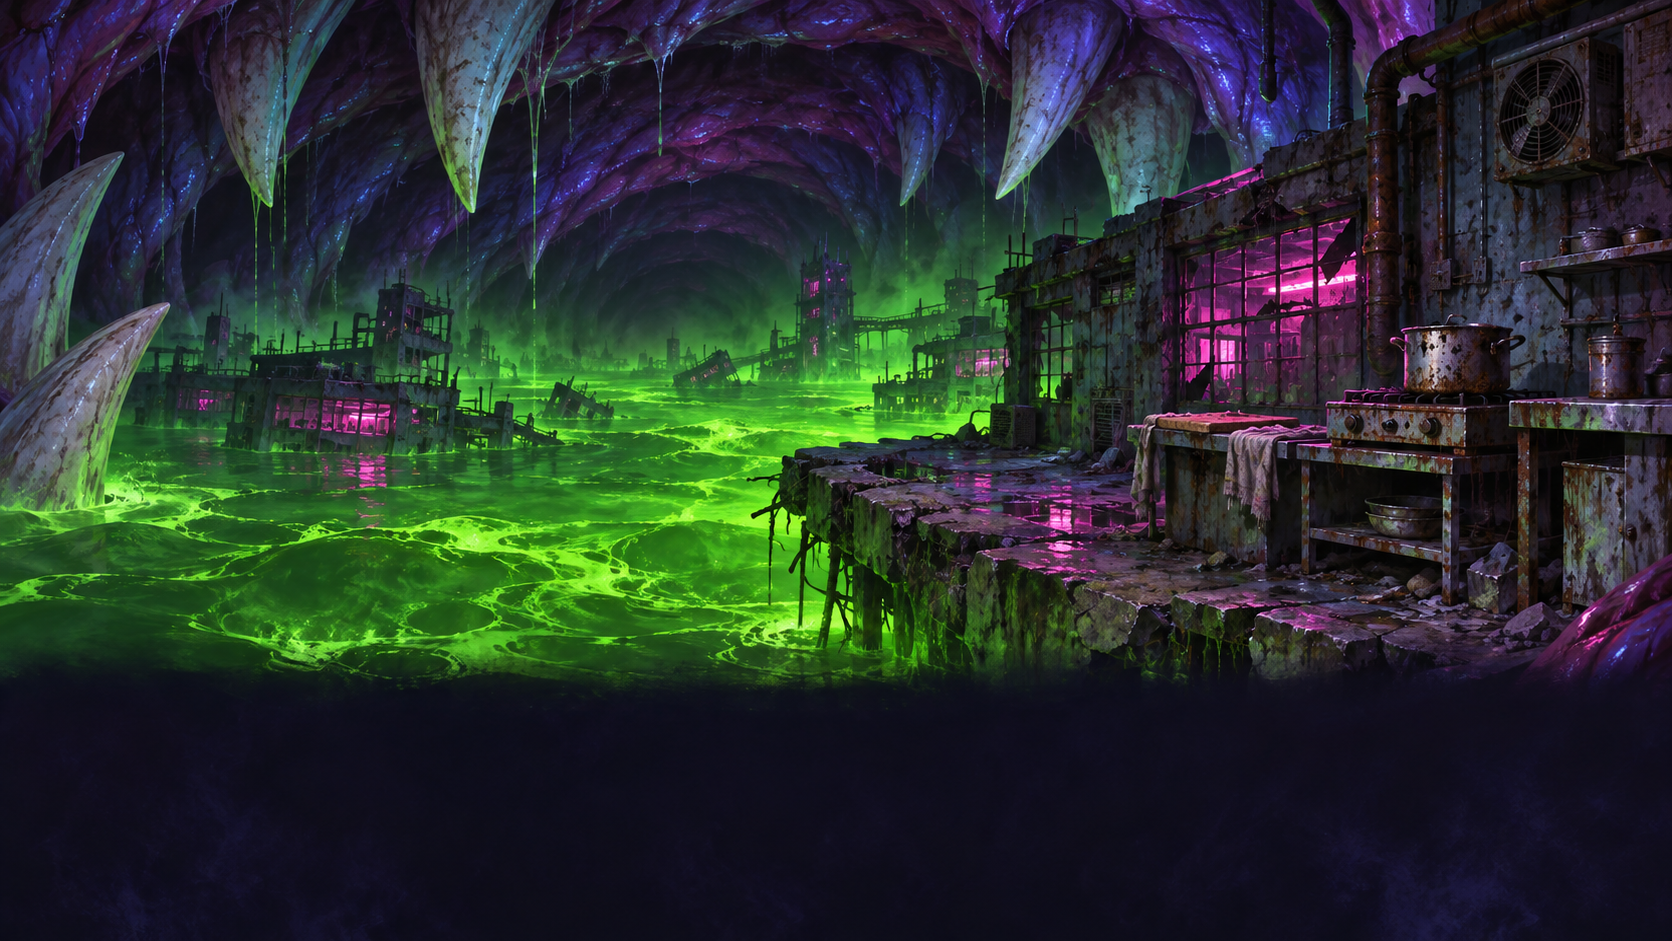
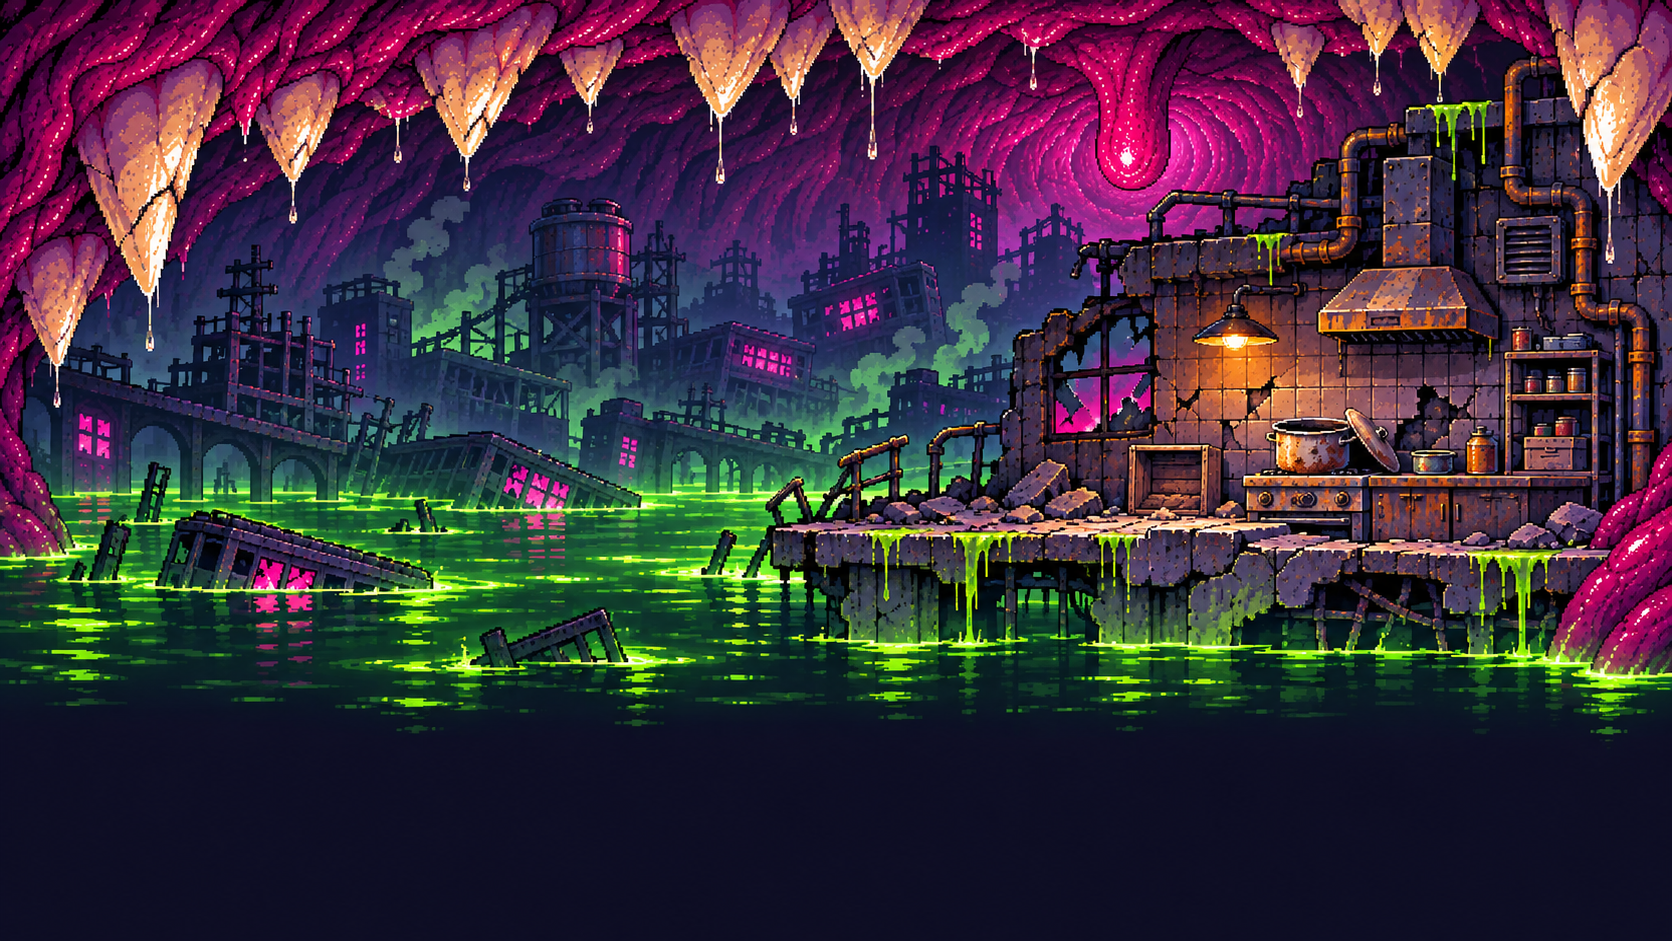
fix: draw the endings as pixel art and keep the checks to what they judge

diff --git a/docs/art/production/endings/README.md b/docs/art/production/endings/README.md
@@ -1,15 +1,18 @@
+Provenance and exact generation inputs for the three ending stills used by issue #270.
+
 # Ending image provenance
 
-The generated still images used by the three ending screens in issue #270.
-
-- Generator: Codex built-in image generation tool, 2026-11-18; no external paid-credit service.
-- Direction: Toxic Night from goal #268, with near-black blue-violet shadows, acid-green and pink neon and a ruined city in a monster's mouth.
-- Characters: none; these environments do not use the in-game character sprites as references.
-- Sources: the three PNGs beside this file are the unmodified generated originals; the adjacent `*-prompt.txt` files contain the exact submitted prompts.
-- Runtime: identical copies in `project/levels/monster_mouth_escape/art_hd/endings/`, drawn over the full 16:9 canvas. Native generation dimensions are 1672 by 941 pixels (16:9 rounded to whole pixels).
+- Generator: Codex built-in image generation tool, 2026-11-18; model, seed and quality setting not exposed. Opaque output (`transparent_background: false`).
+- Direction: Toxic Night side-view pixel art; stepped outlines, fine pixel clusters and flat pixel shading, with near-black blue-violet shadows, acid-green and pink neon. No painterly or soft rendering.
+- Style references: all three calls supplied `F-street.png`, `F-building.png` and `F-base.png` from the temporary `.pm-ref/` directory as `referenced_image_paths`, in that order. They were style references only, not edit targets. These mockups are recorded at `docs/art/concept-art/toxic-night/f-street.png`, `f-building.png` and `f-base.png` in art-direction commit `35a53ee444965e50eba276c823cbf8273ba47d53`. The temporary copies were removed after generation.
+- Prompts: each adjacent `*-prompt.txt` contains the exact prompt submitted for that image; one built-in call per ending, with the same three references. No CLI/API fallback or postprocessing.
+- Sources: the three PNGs beside this file are unmodified generated originals. Runtime files in `project/levels/monster_mouth_escape/art_hd/endings/` are byte-identical copies with the same basenames.
+- Dimensions: 1672 by 941 pixels, preserving the existing approximately 16:9 size. The lower quarter is reserved as an empty dark band for the game's caption panel.
+- Characters: none; no character sprites were supplied.
+- Visual inspection: all three generated results were viewed before selection for hard stepped contours, pixel clusters, discrete shading and an empty caption band. These are artwork inspections, not runtime screen captures; in-game display verification remains with the PM.
 
 | Outcome | Source and runtime basename | SHA-256 |
 |---|---|---|
[6 lines of base64/hex data omitted]
